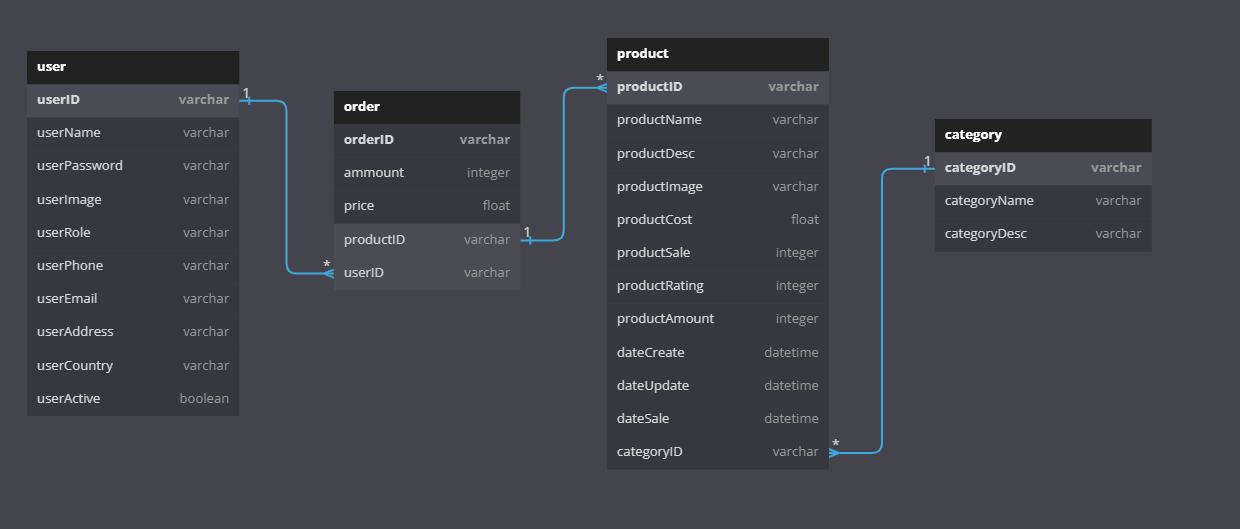
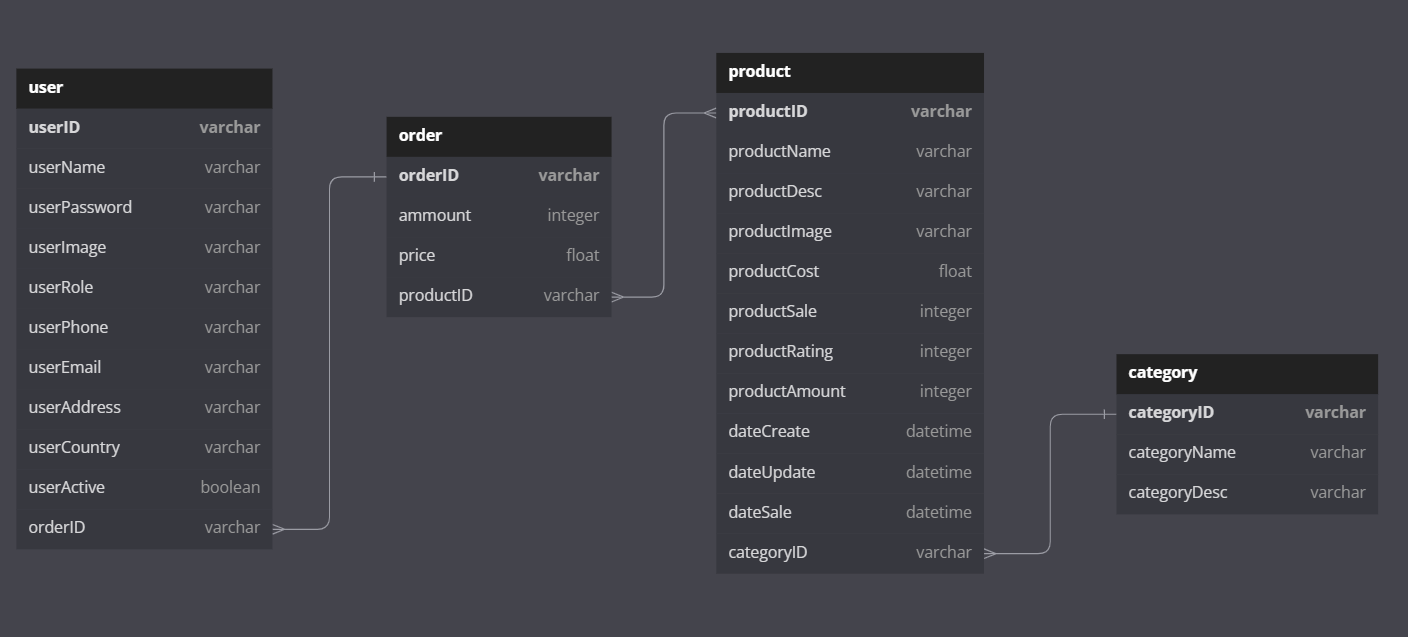
Change database diagram

diff --git a/README.md b/README.md
@@ -15,10 +15,18 @@
 
 ## Mô hình thiết kế
 
-- Usecase Diagram
+> - Usecase tổng quát
 
 ![Usecase Diagram](./assets/images/diagrams/Usecase.png)
 
-- Database Diagram
+> - Usecase đăng nhập
+
+![Usecase Diagram](./assets/images/diagrams/Usecase-Login.png)
+
+> - ERD Diagram
+
+![ERD Diagram](./assets/images/diagrams/ERD.png)
+
+> - Database Diagram
 
 ![Database Diagram](./assets/images/diagrams/Database.png)
